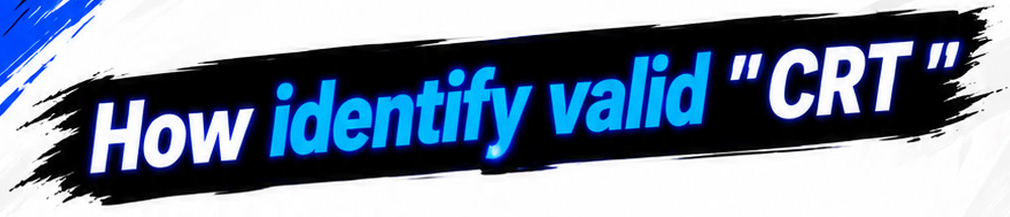
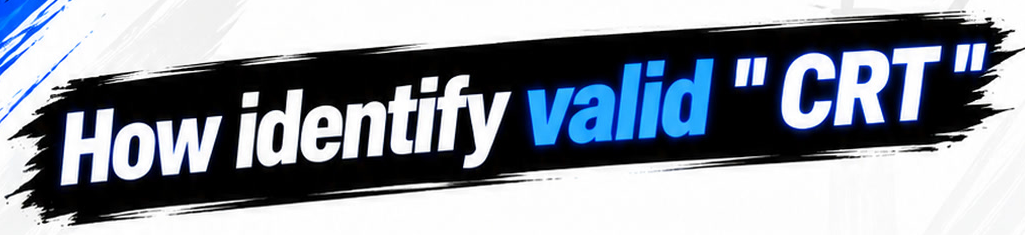
OTM CRT video: use the corrected 'How identify valid CRT' slide
Claude-Session: https://claude.ai/code/session_01QPT7E9o44dsHzvP2ViphNX

diff --git a/otm-crt-video/compositions/s3.html b/otm-crt-video/compositions/s3.html
@@ -2,7 +2,7 @@
   <style>
     #root { position: absolute; inset: 0; overflow: hidden; background: #ffffff; }
     #s3-cam, #s3-shake { position: absolute; inset: 0; }
-    #s3-cam { transform-origin: 770px 700px; }
+    #s3-cam { transform-origin: 750px 790px; }
     .s3-full { position: absolute; left: 0; top: 0; width: 1080px; height: 1920px; }
     .s3-lyr { position: absolute; }
     .s3-lyr img { position: absolute; left: 0; top: 0; display: block; }
@@ -15,46 +15,46 @@
     #s3-pop, #s3-flash { position: absolute; inset: 0; background: #ffffff; pointer-events: none; }
     #s3-pop { z-index: 80; opacity: 0; }
     #s3-flash { z-index: 90; opacity: 0; }
-        #s3-sweep { left:35px; top:175px; width:1010px; height:217px; -webkit-mask-image:url(assets/layers/s3_title.png); mask-image:url(assets/layers/s3_title.png); -webkit-mask-size:100% 100%; mask-size:100% 100%; }
+        #s3-sweep { left:35px; top:170px; width:1025px; height:235px; -webkit-mask-image:url(assets/layers/s3_title.png); mask-image:url(assets/layers/s3_title.png); -webkit-mask-size:100% 100%; mask-size:100% 100%; }
   </style>
   <div id="root" data-composition-id="s3" data-width="1080" data-height="1920" data-layout-allow-overflow data-layout-allow-overlap>
     <div id="s3-cam">
       <div id="s3-shake">
                 <img id="s3-plate" class="s3-full" src="assets/plates/s3.jpg" alt="" />
-        <div id="s3-title" class="s3-lyr" style="left:35px;top:175px;width:1010px;height:217px;overflow:visible;z-index:10"><img id="s3-title-img" src="assets/layers/s3_title.png" alt="" style="width:1010px;height:217px" /></div>
-        <div id="s3-char" class="s3-lyr" style="left:170px;top:1175px;width:850px;height:520px;overflow:hidden;z-index:11"><img id="s3-char-img" src="assets/layers/s3_char.png" alt="" style="width:850px;height:520px" /></div>
-        <div id="s3-t1" class="s3-lyr" style="left:50px;top:392px;width:1000px;height:50px;overflow:visible;z-index:12"><img id="s3-t1-img" src="assets/layers/s3_t1.png" alt="" style="width:1000px;height:50px" /></div>
-        <div id="s3-t2" class="s3-lyr" style="left:50px;top:442px;width:1000px;height:50px;overflow:visible;z-index:13"><img id="s3-t2-img" src="assets/layers/s3_t2.png" alt="" style="width:1000px;height:50px" /></div>
-        <div id="s3-dl" class="s3-lyr" style="left:30px;top:505px;width:500px;height:670px;overflow:visible;z-index:14"><img id="s3-dl-img" src="assets/layers/s3_dl.png" alt="" style="width:500px;height:670px" /></div>
-        <div id="s3-dr" class="s3-lyr" style="left:530px;top:505px;width:535px;height:670px;overflow:visible;z-index:15"><img id="s3-dr-img" src="assets/layers/s3_dr.png" alt="" style="width:535px;height:670px" /></div>
-        <div id="s3-x" class="s3-lyr" style="left:315px;top:895px;width:170px;height:160px;overflow:visible;z-index:16"><img id="s3-x-img" src="assets/layers/s3_x.png" alt="" style="width:170px;height:160px" /></div>
-        <div id="s3-ok" class="s3-lyr" style="left:835px;top:865px;width:190px;height:190px;overflow:visible;z-index:17"><img id="s3-ok-img" src="assets/layers/s3_ok.png" alt="" style="width:190px;height:190px" /></div>
-        <div id="s3-sp0-0" class="s3-spark" style="left:394px;top:970px;width:11px;height:11px;background:#ff2d3d"></div>
-        <div id="s3-sp0-1" class="s3-spark" style="left:396px;top:971px;width:8px;height:8px;background:#ff2d3d"></div>
-        <div id="s3-sp0-2" class="s3-spark" style="left:392px;top:968px;width:15px;height:15px;background:#ff2d3d"></div>
-        <div id="s3-sp0-3" class="s3-spark" style="left:394px;top:969px;width:12px;height:12px;background:#ff2d3d"></div>
-        <div id="s3-sp0-4" class="s3-spark" style="left:396px;top:970px;width:9px;height:9px;background:#ff2d3d"></div>
-        <div id="s3-sp0-5" class="s3-spark" style="left:392px;top:967px;width:16px;height:16px;background:#ff2d3d"></div>
-        <div id="s3-sp0-6" class="s3-spark" style="left:394px;top:968px;width:13px;height:13px;background:#ff2d3d"></div>
-        <div id="s3-sp0-7" class="s3-spark" style="left:395px;top:970px;width:10px;height:10px;background:#ff2d3d"></div>
-        <div id="s3-sp0-8" class="s3-spark" style="left:392px;top:966px;width:17px;height:17px;background:#ff2d3d"></div>
-        <div id="s3-sp0-9" class="s3-spark" style="left:393px;top:968px;width:14px;height:14px;background:#ff2d3d"></div>
-        <div id="s3-sp0-10" class="s3-spark" style="left:394px;top:970px;width:11px;height:11px;background:#ff2d3d"></div>
-        <div id="s3-sp0-11" class="s3-spark" style="left:396px;top:971px;width:8px;height:8px;background:#ff2d3d"></div>
-        <div id="s3-sp1-0" class="s3-spark" style="left:924px;top:954px;width:12px;height:12px;background:#22c55e"></div>
-        <div id="s3-sp1-1" class="s3-spark" style="left:926px;top:956px;width:9px;height:9px;background:#22c55e"></div>
-        <div id="s3-sp1-2" class="s3-spark" style="left:922px;top:952px;width:16px;height:16px;background:#22c55e"></div>
-        <div id="s3-sp1-3" class="s3-spark" style="left:924px;top:954px;width:13px;height:13px;background:#22c55e"></div>
-        <div id="s3-sp1-4" class="s3-spark" style="left:925px;top:955px;width:10px;height:10px;background:#22c55e"></div>
-        <div id="s3-sp1-5" class="s3-spark" style="left:922px;top:952px;width:17px;height:17px;background:#22c55e"></div>
-        <div id="s3-sp1-6" class="s3-spark" style="left:923px;top:953px;width:14px;height:14px;background:#22c55e"></div>
-        <div id="s3-sp1-7" class="s3-spark" style="left:924px;top:954px;width:11px;height:11px;background:#22c55e"></div>
-        <div id="s3-sp1-8" class="s3-spark" style="left:926px;top:956px;width:8px;height:8px;background:#22c55e"></div>
-        <div id="s3-sp1-9" class="s3-spark" style="left:922px;top:952px;width:15px;height:15px;background:#22c55e"></div>
-        <div id="s3-sp1-10" class="s3-spark" style="left:924px;top:954px;width:12px;height:12px;background:#22c55e"></div>
-        <div id="s3-sp1-11" class="s3-spark" style="left:926px;top:956px;width:9px;height:9px;background:#22c55e"></div>
-        <div id="s3-ring1" class="s3-ring" style="left:680px;top:610px"></div>
-        <div id="s3-ring2" class="s3-ring" style="left:680px;top:610px"></div>
+        <div id="s3-title" class="s3-lyr" style="left:35px;top:170px;width:1025px;height:235px;overflow:visible;z-index:10"><img id="s3-title-img" src="assets/layers/s3_title.png" alt="" style="width:1025px;height:235px" /></div>
+        <div id="s3-char" class="s3-lyr" style="left:170px;top:1212px;width:850px;height:526px;overflow:hidden;z-index:11"><img id="s3-char-img" src="assets/layers/s3_char.png" alt="" style="width:850px;height:526px" /></div>
+        <div id="s3-t1" class="s3-lyr" style="left:90px;top:408px;width:885px;height:54px;overflow:visible;z-index:12"><img id="s3-t1-img" src="assets/layers/s3_t1.png" alt="" style="width:885px;height:54px" /></div>
+        <div id="s3-t2" class="s3-lyr" style="left:90px;top:462px;width:885px;height:52px;overflow:visible;z-index:13"><img id="s3-t2-img" src="assets/layers/s3_t2.png" alt="" style="width:885px;height:52px" /></div>
+        <div id="s3-dl" class="s3-lyr" style="left:70px;top:612px;width:450px;height:600px;overflow:visible;z-index:14"><img id="s3-dl-img" src="assets/layers/s3_dl.png" alt="" style="width:450px;height:600px" /></div>
+        <div id="s3-dr" class="s3-lyr" style="left:520px;top:535px;width:525px;height:677px;overflow:visible;z-index:15"><img id="s3-dr-img" src="assets/layers/s3_dr.png" alt="" style="width:525px;height:677px" /></div>
+        <div id="s3-x" class="s3-lyr" style="left:338px;top:935px;width:122px;height:125px;overflow:visible;z-index:16"><img id="s3-x-img" src="assets/layers/s3_x.png" alt="" style="width:122px;height:125px" /></div>
+        <div id="s3-ok" class="s3-lyr" style="left:845px;top:920px;width:150px;height:145px;overflow:visible;z-index:17"><img id="s3-ok-img" src="assets/layers/s3_ok.png" alt="" style="width:150px;height:145px" /></div>
+        <div id="s3-sp0-0" class="s3-spark" style="left:394px;top:992px;width:11px;height:11px;background:#ff2d3d"></div>
+        <div id="s3-sp0-1" class="s3-spark" style="left:395px;top:994px;width:8px;height:8px;background:#ff2d3d"></div>
+        <div id="s3-sp0-2" class="s3-spark" style="left:392px;top:990px;width:15px;height:15px;background:#ff2d3d"></div>
+        <div id="s3-sp0-3" class="s3-spark" style="left:393px;top:992px;width:12px;height:12px;background:#ff2d3d"></div>
+        <div id="s3-sp0-4" class="s3-spark" style="left:394px;top:993px;width:9px;height:9px;background:#ff2d3d"></div>
+        <div id="s3-sp0-5" class="s3-spark" style="left:391px;top:990px;width:16px;height:16px;background:#ff2d3d"></div>
+        <div id="s3-sp0-6" class="s3-spark" style="left:392px;top:991px;width:13px;height:13px;background:#ff2d3d"></div>
+        <div id="s3-sp0-7" class="s3-spark" style="left:394px;top:992px;width:10px;height:10px;background:#ff2d3d"></div>
+        <div id="s3-sp0-8" class="s3-spark" style="left:390px;top:989px;width:17px;height:17px;background:#ff2d3d"></div>
+        <div id="s3-sp0-9" class="s3-spark" style="left:392px;top:990px;width:14px;height:14px;background:#ff2d3d"></div>
+        <div id="s3-sp0-10" class="s3-spark" style="left:394px;top:992px;width:11px;height:11px;background:#ff2d3d"></div>
+        <div id="s3-sp0-11" class="s3-spark" style="left:395px;top:994px;width:8px;height:8px;background:#ff2d3d"></div>
+        <div id="s3-sp1-0" class="s3-spark" style="left:914px;top:986px;width:12px;height:12px;background:#22c55e"></div>
+        <div id="s3-sp1-1" class="s3-spark" style="left:916px;top:988px;width:9px;height:9px;background:#22c55e"></div>
+        <div id="s3-sp1-2" class="s3-spark" style="left:912px;top:984px;width:16px;height:16px;background:#22c55e"></div>
+        <div id="s3-sp1-3" class="s3-spark" style="left:914px;top:986px;width:13px;height:13px;background:#22c55e"></div>
+        <div id="s3-sp1-4" class="s3-spark" style="left:915px;top:988px;width:10px;height:10px;background:#22c55e"></div>
+        <div id="s3-sp1-5" class="s3-spark" style="left:912px;top:984px;width:17px;height:17px;background:#22c55e"></div>
+        <div id="s3-sp1-6" class="s3-spark" style="left:913px;top:986px;width:14px;height:14px;background:#22c55e"></div>
+        <div id="s3-sp1-7" class="s3-spark" style="left:914px;top:987px;width:11px;height:11px;background:#22c55e"></div>
+        <div id="s3-sp1-8" class="s3-spark" style="left:916px;top:988px;width:8px;height:8px;background:#22c55e"></div>
+        <div id="s3-sp1-9" class="s3-spark" style="left:912px;top:985px;width:15px;height:15px;background:#22c55e"></div>
+        <div id="s3-sp1-10" class="s3-spark" style="left:914px;top:986px;width:12px;height:12px;background:#22c55e"></div>
+        <div id="s3-sp1-11" class="s3-spark" style="left:916px;top:988px;width:9px;height:9px;background:#22c55e"></div>
+        <div id="s3-ring1" class="s3-ring" style="left:660px;top:700px"></div>
+        <div id="s3-ring2" class="s3-ring" style="left:660px;top:700px"></div>
         <img id="s3-rgb-r" class="s3-full s3-rgb" src="assets/slides/s3_valid.jpg" alt="" style="filter:grayscale(1) sepia(1) saturate(12) hue-rotate(-45deg)" />
         <img id="s3-rgb-c" class="s3-full s3-rgb" src="assets/slides/s3_valid.jpg" alt="" style="filter:grayscale(1) sepia(1) saturate(12) hue-rotate(150deg)" />
         <div id="s3-sweep"><div id="s3-sweep-bar"></div></div>
@@ -84,7 +84,7 @@
       shake(tl, "#s3-shake", 0.25, 22);
       tl.fromTo("#s3-pop", {opacity: 0.75}, {opacity: 0, duration: 0.16, ease: "power2.out", immediateRender: false}, 0.23);
       tl.fromTo("#s3-sweep-bar", {xPercent: -120}, {xPercent: 260, duration: 0.7, ease: "power2.inOut"}, 0.55);
-      tl.fromTo("#s3-char-img", {y: 530}, {y: 0, duration: 0.62, ease: "back.out(1.25)"}, 0.45);
+      tl.fromTo("#s3-char-img", {y: 536}, {y: 0, duration: 0.62, ease: "back.out(1.25)"}, 0.45);
       tl.fromTo("#s3-t1-img", {clipPath: "inset(0% 100% 0% 0%)"}, {clipPath: "inset(0% 0% 0% 0%)", duration: 0.36, ease: "power3.out"}, 0.93);
       tl.fromTo("#s3-t1", {x: -26, opacity: 0}, {x: 0, opacity: 1, duration: 0.29, ease: "expo.out"}, 0.93);
       tl.fromTo("#s3-t2-img", {clipPath: "inset(0% 100% 0% 0%)"}, {clipPath: "inset(0% 0% 0% 0%)", duration: 0.36, ease: "power3.out"}, 1.41);
@@ -97,30 +97,30 @@
       shake(tl, "#s3-shake", 5.59, 14);
       tl.fromTo("#s3-ok", {opacity: 0, scale: 2.8, rotation: -8}, {opacity: 1, scale: 1, rotation: 0, duration: 0.3, ease: "back.out(2.2)"}, 6.82);
       shake(tl, "#s3-shake", 7.02, 14);
-      tl.fromTo("#s3-sp0-0", {x: 0, y: 0, opacity: 1, scale: 1}, {x: 157, y: 18, opacity: 0, scale: 0.3, duration: 0.5, ease: "power3.out", immediateRender: false}, 5.59);
-      tl.fromTo("#s3-sp0-1", {x: 0, y: 0, opacity: 1, scale: 1}, {x: 182, y: 132, opacity: 0, scale: 0.3, duration: 0.5, ease: "power3.out", immediateRender: false}, 5.59);
-      tl.fromTo("#s3-sp0-2", {x: 0, y: 0, opacity: 1, scale: 1}, {x: 72, y: 161, opacity: 0, scale: 0.3, duration: 0.5, ease: "power3.out", immediateRender: false}, 5.59);
-      tl.fromTo("#s3-sp0-3", {x: 0, y: 0, opacity: 1, scale: 1}, {x: -27, y: 242, opacity: 0, scale: 0.3, duration: 0.5, ease: "power3.out", immediateRender: false}, 5.59);
-      tl.fromTo("#s3-sp0-4", {x: 0, y: 0, opacity: 1, scale: 1}, {x: -118, y: 158, opacity: 0, scale: 0.3, duration: 0.5, ease: "power3.out", immediateRender: false}, 5.59);
-      tl.fromTo("#s3-sp0-5", {x: 0, y: 0, opacity: 1, scale: 1}, {x: -244, y: 106, opacity: 0, scale: 0.3, duration: 0.5, ease: "power3.out", immediateRender: false}, 5.59);
-      tl.fromTo("#s3-sp0-6", {x: 0, y: 0, opacity: 1, scale: 1}, {x: -218, y: -24, opacity: 0, scale: 0.3, duration: 0.5, ease: "power3.out", immediateRender: false}, 5.59);
-      tl.fromTo("#s3-sp0-7", {x: 0, y: 0, opacity: 1, scale: 1}, {x: -139, y: -100, opacity: 0, scale: 0.3, duration: 0.5, ease: "power3.out", immediateRender: false}, 5.59);
-      tl.fromTo("#s3-sp0-8", {x: 0, y: 0, opacity: 1, scale: 1}, {x: -96, y: -217, opacity: 0, scale: 0.3, duration: 0.5, ease: "power3.out", immediateRender: false}, 5.59);
-      tl.fromTo("#s3-sp0-9", {x: 0, y: 0, opacity: 1, scale: 1}, {x: 21, y: -189, opacity: 0, scale: 0.3, duration: 0.5, ease: "power3.out", immediateRender: false}, 5.59);
-      tl.fromTo("#s3-sp0-10", {x: 0, y: 0, opacity: 1, scale: 1}, {x: 154, y: -208, opacity: 0, scale: 0.3, duration: 0.5, ease: "power3.out", immediateRender: false}, 5.59);
-      tl.fromTo("#s3-sp0-11", {x: 0, y: 0, opacity: 1, scale: 1}, {x: 195, y: -85, opacity: 0, scale: 0.3, duration: 0.5, ease: "power3.out", immediateRender: false}, 5.59);
-      tl.fromTo("#s3-sp1-0", {x: 0, y: 0, opacity: 1, scale: 1}, {x: 180, y: 93, opacity: 0, scale: 0.3, duration: 0.5, ease: "power3.out", immediateRender: false}, 7.02);
-      tl.fromTo("#s3-sp1-1", {x: 0, y: 0, opacity: 1, scale: 1}, {x: 146, y: 230, opacity: 0, scale: 0.3, duration: 0.5, ease: "power3.out", immediateRender: false}, 7.02);
-      tl.fromTo("#s3-sp1-2", {x: 0, y: 0, opacity: 1, scale: 1}, {x: 9, y: 224, opacity: 0, scale: 0.3, duration: 0.5, ease: "power3.out", immediateRender: false}, 7.02);
-      tl.fromTo("#s3-sp1-3", {x: 0, y: 0, opacity: 1, scale: 1}, {x: -80, y: 155, opacity: 0, scale: 0.3, duration: 0.5, ease: "power3.out", immediateRender: false}, 7.02);
-      tl.fromTo("#s3-sp1-4", {x: 0, y: 0, opacity: 1, scale: 1}, {x: -207, y: 132, opacity: 0, scale: 0.3, duration: 0.5, ease: "power3.out", immediateRender: false}, 7.02);
-      tl.fromTo("#s3-sp1-5", {x: 0, y: 0, opacity: 1, scale: 1}, {x: -196, y: 8, opacity: 0, scale: 0.3, duration: 0.5, ease: "power3.out", immediateRender: false}, 7.02);
-      tl.fromTo("#s3-sp1-6", {x: 0, y: 0, opacity: 1, scale: 1}, {x: -236, y: -122, opacity: 0, scale: 0.3, duration: 0.5, ease: "power3.out", immediateRender: false}, 7.02);
-      tl.fromTo("#s3-sp1-7", {x: 0, y: 0, opacity: 1, scale: 1}, {x: -117, y: -183, opacity: 0, scale: 0.3, duration: 0.5, ease: "power3.out", immediateRender: false}, 7.02);
-      tl.fromTo("#s3-sp1-8", {x: 0, y: 0, opacity: 1, scale: 1}, {x: -8, y: -169, opacity: 0, scale: 0.3, duration: 0.5, ease: "power3.out", immediateRender: false}, 7.02);
-      tl.fromTo("#s3-sp1-9", {x: 0, y: 0, opacity: 1, scale: 1}, {x: 111, y: -212, opacity: 0, scale: 0.3, duration: 0.5, ease: "power3.out", immediateRender: false}, 7.02);
-      tl.fromTo("#s3-sp1-10", {x: 0, y: 0, opacity: 1, scale: 1}, {x: 159, y: -101, opacity: 0, scale: 0.3, duration: 0.5, ease: "power3.out", immediateRender: false}, 7.02);
-      tl.fromTo("#s3-sp1-11", {x: 0, y: 0, opacity: 1, scale: 1}, {x: 259, y: -12, opacity: 0, scale: 0.3, duration: 0.5, ease: "power3.out", immediateRender: false}, 7.02);
+      tl.fromTo("#s3-sp0-0", {x: 0, y: 0, opacity: 1, scale: 1}, {x: 147, y: 17, opacity: 0, scale: 0.3, duration: 0.5, ease: "power3.out", immediateRender: false}, 5.59);
+      tl.fromTo("#s3-sp0-1", {x: 0, y: 0, opacity: 1, scale: 1}, {x: 171, y: 126, opacity: 0, scale: 0.3, duration: 0.5, ease: "power3.out", immediateRender: false}, 5.59);
+      tl.fromTo("#s3-sp0-2", {x: 0, y: 0, opacity: 1, scale: 1}, {x: 67, y: 153, opacity: 0, scale: 0.3, duration: 0.5, ease: "power3.out", immediateRender: false}, 5.59);
+      tl.fromTo("#s3-sp0-3", {x: 0, y: 0, opacity: 1, scale: 1}, {x: -25, y: 231, opacity: 0, scale: 0.3, duration: 0.5, ease: "power3.out", immediateRender: false}, 5.59);
+      tl.fromTo("#s3-sp0-4", {x: 0, y: 0, opacity: 1, scale: 1}, {x: -111, y: 151, opacity: 0, scale: 0.3, duration: 0.5, ease: "power3.out", immediateRender: false}, 5.59);
+      tl.fromTo("#s3-sp0-5", {x: 0, y: 0, opacity: 1, scale: 1}, {x: -229, y: 102, opacity: 0, scale: 0.3, duration: 0.5, ease: "power3.out", immediateRender: false}, 5.59);
+      tl.fromTo("#s3-sp0-6", {x: 0, y: 0, opacity: 1, scale: 1}, {x: -205, y: -23, opacity: 0, scale: 0.3, duration: 0.5, ease: "power3.out", immediateRender: false}, 5.59);
+      tl.fromTo("#s3-sp0-7", {x: 0, y: 0, opacity: 1, scale: 1}, {x: -130, y: -95, opacity: 0, scale: 0.3, duration: 0.5, ease: "power3.out", immediateRender: false}, 5.59);
+      tl.fromTo("#s3-sp0-8", {x: 0, y: 0, opacity: 1, scale: 1}, {x: -90, y: -207, opacity: 0, scale: 0.3, duration: 0.5, ease: "power3.out", immediateRender: false}, 5.59);
+      tl.fromTo("#s3-sp0-9", {x: 0, y: 0, opacity: 1, scale: 1}, {x: 19, y: -180, opacity: 0, scale: 0.3, duration: 0.5, ease: "power3.out", immediateRender: false}, 5.59);
+      tl.fromTo("#s3-sp0-10", {x: 0, y: 0, opacity: 1, scale: 1}, {x: 144, y: -198, opacity: 0, scale: 0.3, duration: 0.5, ease: "power3.out", immediateRender: false}, 5.59);
+      tl.fromTo("#s3-sp0-11", {x: 0, y: 0, opacity: 1, scale: 1}, {x: 183, y: -81, opacity: 0, scale: 0.3, duration: 0.5, ease: "power3.out", immediateRender: false}, 5.59);
+      tl.fromTo("#s3-sp1-0", {x: 0, y: 0, opacity: 1, scale: 1}, {x: 171, y: 88, opacity: 0, scale: 0.3, duration: 0.5, ease: "power3.out", immediateRender: false}, 7.02);
+      tl.fromTo("#s3-sp1-1", {x: 0, y: 0, opacity: 1, scale: 1}, {x: 139, y: 217, opacity: 0, scale: 0.3, duration: 0.5, ease: "power3.out", immediateRender: false}, 7.02);
+      tl.fromTo("#s3-sp1-2", {x: 0, y: 0, opacity: 1, scale: 1}, {x: 9, y: 211, opacity: 0, scale: 0.3, duration: 0.5, ease: "power3.out", immediateRender: false}, 7.02);
+      tl.fromTo("#s3-sp1-3", {x: 0, y: 0, opacity: 1, scale: 1}, {x: -76, y: 147, opacity: 0, scale: 0.3, duration: 0.5, ease: "power3.out", immediateRender: false}, 7.02);
+      tl.fromTo("#s3-sp1-4", {x: 0, y: 0, opacity: 1, scale: 1}, {x: -196, y: 124, opacity: 0, scale: 0.3, duration: 0.5, ease: "power3.out", immediateRender: false}, 7.02);
+      tl.fromTo("#s3-sp1-5", {x: 0, y: 0, opacity: 1, scale: 1}, {x: -186, y: 7, opacity: 0, scale: 0.3, duration: 0.5, ease: "power3.out", immediateRender: false}, 7.02);
+      tl.fromTo("#s3-sp1-6", {x: 0, y: 0, opacity: 1, scale: 1}, {x: -224, y: -115, opacity: 0, scale: 0.3, duration: 0.5, ease: "power3.out", immediateRender: false}, 7.02);
+      tl.fromTo("#s3-sp1-7", {x: 0, y: 0, opacity: 1, scale: 1}, {x: -111, y: -173, opacity: 0, scale: 0.3, duration: 0.5, ease: "power3.out", immediateRender: false}, 7.02);
+      tl.fromTo("#s3-sp1-8", {x: 0, y: 0, opacity: 1, scale: 1}, {x: -8, y: -159, opacity: 0, scale: 0.3, duration: 0.5, ease: "power3.out", immediateRender: false}, 7.02);
+      tl.fromTo("#s3-sp1-9", {x: 0, y: 0, opacity: 1, scale: 1}, {x: 105, y: -200, opacity: 0, scale: 0.3, duration: 0.5, ease: "power3.out", immediateRender: false}, 7.02);
+      tl.fromTo("#s3-sp1-10", {x: 0, y: 0, opacity: 1, scale: 1}, {x: 151, y: -96, opacity: 0, scale: 0.3, duration: 0.5, ease: "power3.out", immediateRender: false}, 7.02);
+      tl.fromTo("#s3-sp1-11", {x: 0, y: 0, opacity: 1, scale: 1}, {x: 246, y: -11, opacity: 0, scale: 0.3, duration: 0.5, ease: "power3.out", immediateRender: false}, 7.02);
       tl.fromTo("#s3-ring1", {scale: 0.2, opacity: 1}, {scale: 1.9, opacity: 0, duration: 0.5, ease: "power2.out", immediateRender: false}, 7.90);
       tl.fromTo("#s3-ring2", {scale: 0.2, opacity: 1}, {scale: 1.9, opacity: 0, duration: 0.5, ease: "power2.out", immediateRender: false}, 8.08);
       tl.to("#s3-cam", {x: -1150, filter: "blur(18px)", duration: 0.32, ease: "power3.in"}, 8.48);

diff --git a/otm-crt-video/work/gen.py b/otm-crt-video/work/gen.py
@@ -36,15 +36,15 @@ SCENES = [
                  ("crth", "wipe", [(470, 715, 1040, 760)], 2.15),
                  ("crtl", "wipe", [(470, 1280, 1040, 1325)], 2.35)],
          sparks=[], highlight=dict(kind="ellipse", cx=615, cy=700, rx=78, ry=100, t=2.75, color="#ff2d3d")),
-    dict(id="s3", slide="s3_valid", dur=5.8, enter="zoom", exit="whipL", dive=(770, 700),
-         layers=[("title", "slam", [(35, 175, 1045, 392)], 0.15),
-                 ("char", "rise", [(170, 1140, 1020, 1695)], 0.45),
-                 ("t1", "wipe", [(50, 392, 1050, 442)], 0.6),
-                 ("t2", "wipe", [(50, 442, 1050, 492)], 0.75),
-                 ("dl", "grow", [(30, 505, 560, 1175)], 1.1),
-                 ("dr", "grow", [(530, 505, 1065, 1175)], 1.45),
-                 ("x", "stamp", [(315, 895, 485, 1055)], 2.0),
-                 ("ok", "stamp", [(835, 865, 1025, 1055)], 2.45)],
+    dict(id="s3", slide="s3_valid", dur=5.8, enter="zoom", exit="whipL", dive=(750, 790),
+         layers=[("title", "slam", [(35, 170, 1060, 405)], 0.15),
+                 ("char", "rise", [(170, 1180, 1020, 1738)], 0.45),
+                 ("t1", "wipe", [(90, 408, 975, 462)], 0.6),
+                 ("t2", "wipe", [(90, 462, 975, 514)], 0.75),
+                 ("dl", "grow", [(70, 612, 520, 1212)], 1.1),
+                 ("dr", "grow", [(520, 535, 1045, 1212)], 1.45),
+                 ("x", "stamp", [(338, 935, 460, 1060)], 2.0),
+                 ("ok", "stamp", [(845, 920, 995, 1065)], 2.45)],
          sparks=["x", "ok"], highlight=None),
     dict(id="s4", slide="s4_power3", dur=6.2, enter="whipL", exit="dive", dive=(550, 900),
          layers=[("title", "slam", [(35, 195, 1065, 410)], 0.15),
